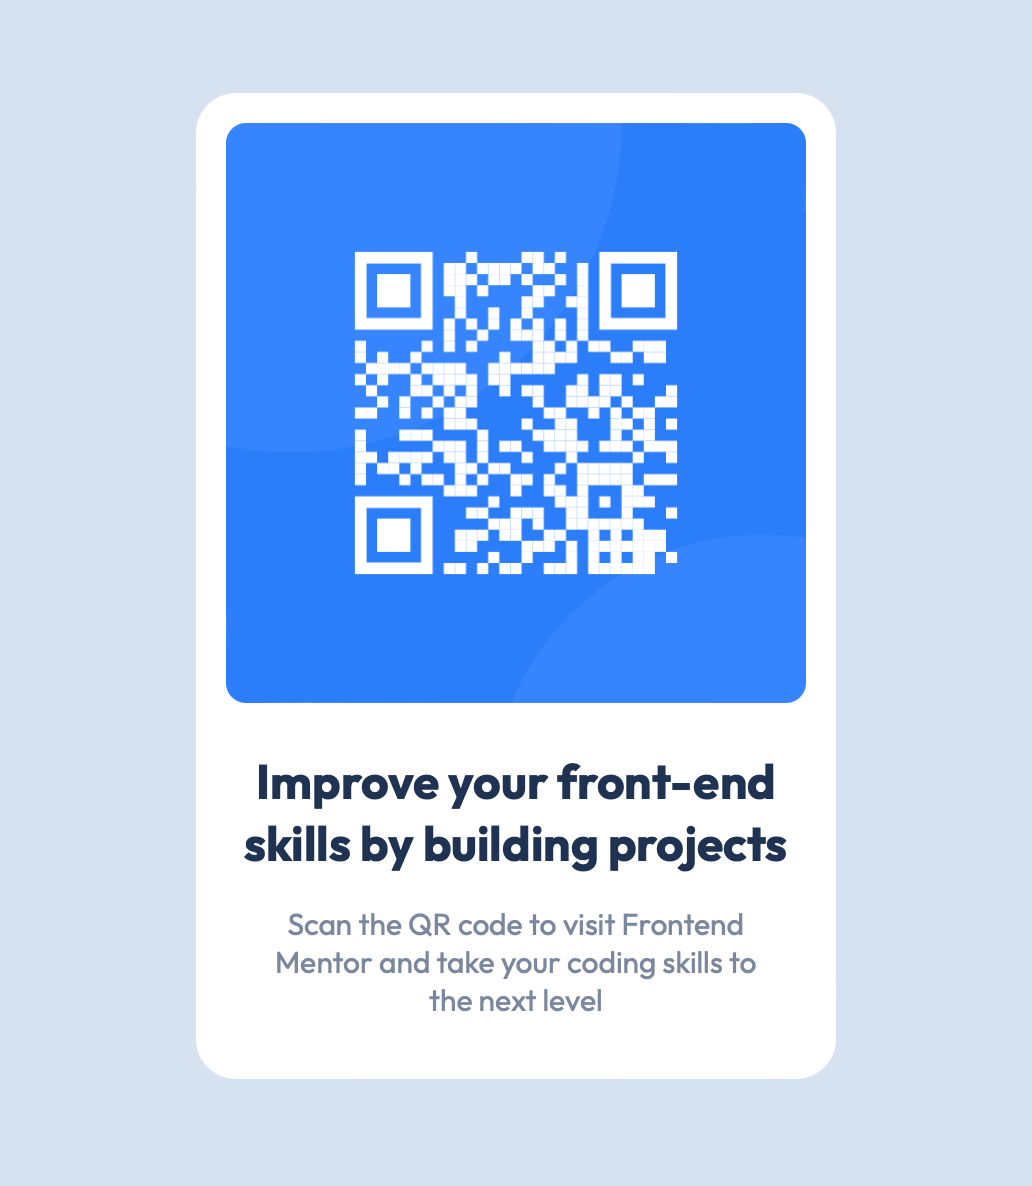
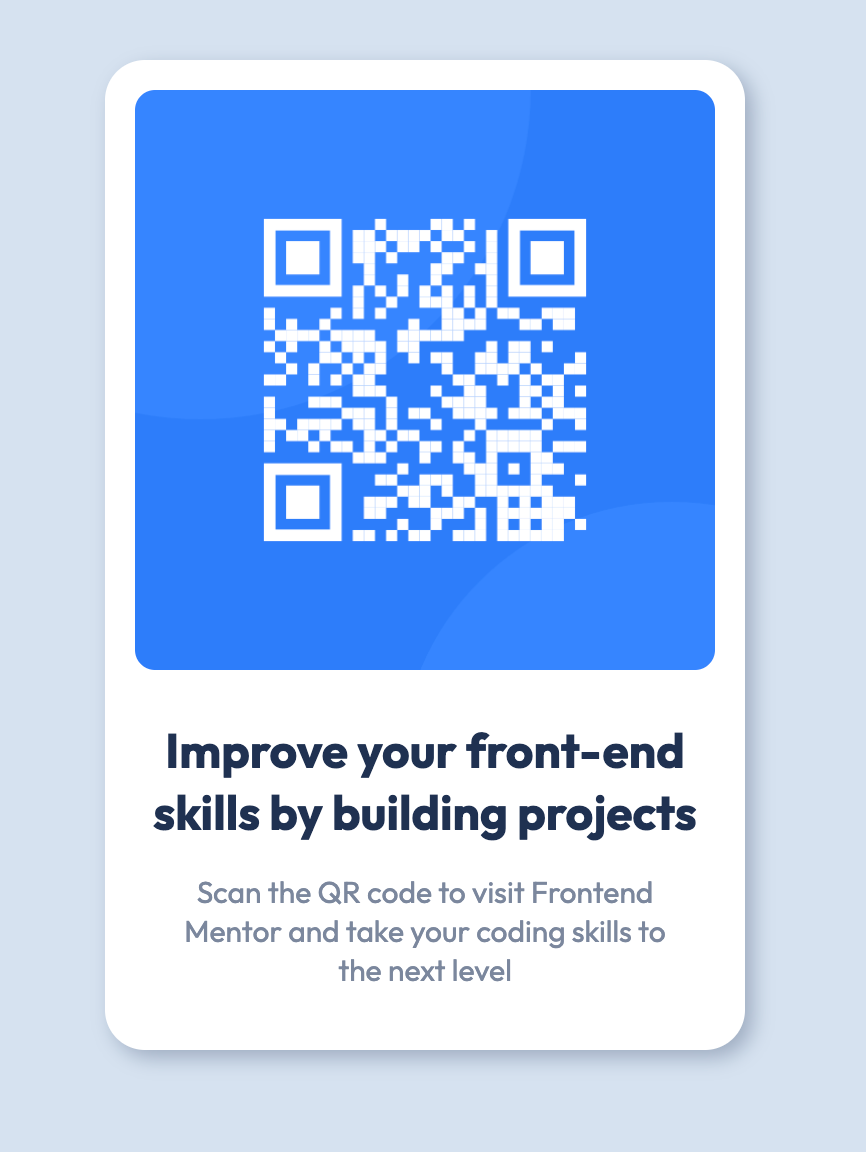
Updating component

Changed region(s): [[0.0935, 0.0312, 0.873, 0.9375], [0.2806, 0.1875, 0.6859, 0.5]]

diff --git a/styles/style.css b/styles/style.css
@@ -29,7 +29,10 @@
     box-sizing: border-box;
 }
 
-body {
+.page {
+    display: flex;
+    flex-direction: column;
+    min-height: 100vh;
     margin: 0;
     padding: 0;
     font-family: 'Outfit', sans-serif;
@@ -37,6 +40,20 @@ body {
     line-height: 1.3;
     color: var(--color-grayish-blue);
     background-color: var(--color-light-gray);
+}
+
+.page__main {
+    display: flex;
+    justify-content: center;
+    align-items: center;
+    flex-grow: 1;
+    padding: 15px;
+}
+
+.page__footer {
+    padding: 15px 24px;
+    text-align: center;
+    background-color: var(--color-white);
 }
 
 .visually-hidden {
@@ -52,22 +69,24 @@ body {
     clip-path: inset(100%);
 }
 
-.page {
-    display: flex;
-    justify-content: center;
-    align-items: center;
-    width: 100%;
-    min-height: 100vh;
-    padding: 15px;
+.link {
+    color: var(--color-dark-blue);
+}
+
+.link:hover,
+.link:focus {
+    text-decoration: none;
 }
 
 .qr-card {
+    --color-dark-blue: hsla(218, 44%, 22%, .3);
     max-width: 320px;
     padding: 15px;
     padding-bottom: 30px;
     text-align: center;
     background-color: var(--color-white);
     border-radius: 20px;
+    box-shadow: 4px 4px 10px 0 var(--color-dark-blue);
 }
 
 .qr-card__image {
@@ -78,6 +97,7 @@ body {
 }
 
 .qr-card__title {
+    --color-dark-blue: hsl(218, 44%, 22%);
     margin: 0 0 15px;
     font-weight: 700;
     font-size: 24px;

diff --git a/index.html b/index.html
@@ -7,8 +7,8 @@
   <link rel="stylesheet" href="./styles/style.css">
   <title>Frontend Mentor | QR code component</title>
 </head>
-<body>
-  <main class="page">
+<body class="page">
+  <main class="page__main">
     <h1 class="visually-hidden">QR code component</h1>
     <section class="qr-card">
       <img class="qr-card__image" src="images/image-qr-code.png" alt="QR code to Frontend Mentor" width="576" height="576">
@@ -16,5 +16,9 @@
       <p class="qr-card__text">Scan the QR code to visit Frontend Mentor and take your coding skills to the next level</p>
     </section>
   </main>
+  <footer class="page__footer">
+    Challenge by <a class="link" href="https://www.frontendmentor.io?ref=challenge" target="_blank">Frontend Mentor</a>.
+    Coded by <a class="link" href="https://www.frontendmentor.io/profile/annaindistress"  target="_blank">annaindistress</a>.
+  </footer>
 </body>
 </html>

diff --git a/README.md b/README.md
@@ -34,7 +34,6 @@ The challenge is to build out QR code component and get it looking as close to t
 - Semantic HTML5 markup
 - CSS custom properties
 - Flexbox
-- Mobile-first workflow
 
 ## Author
 
